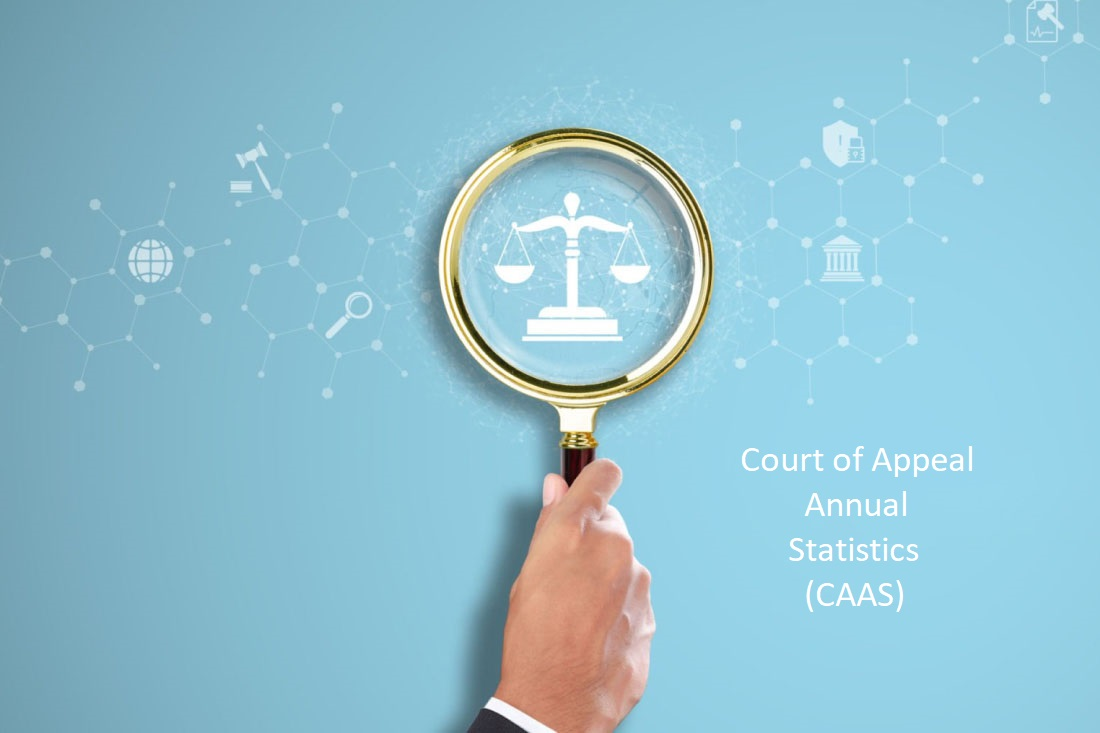
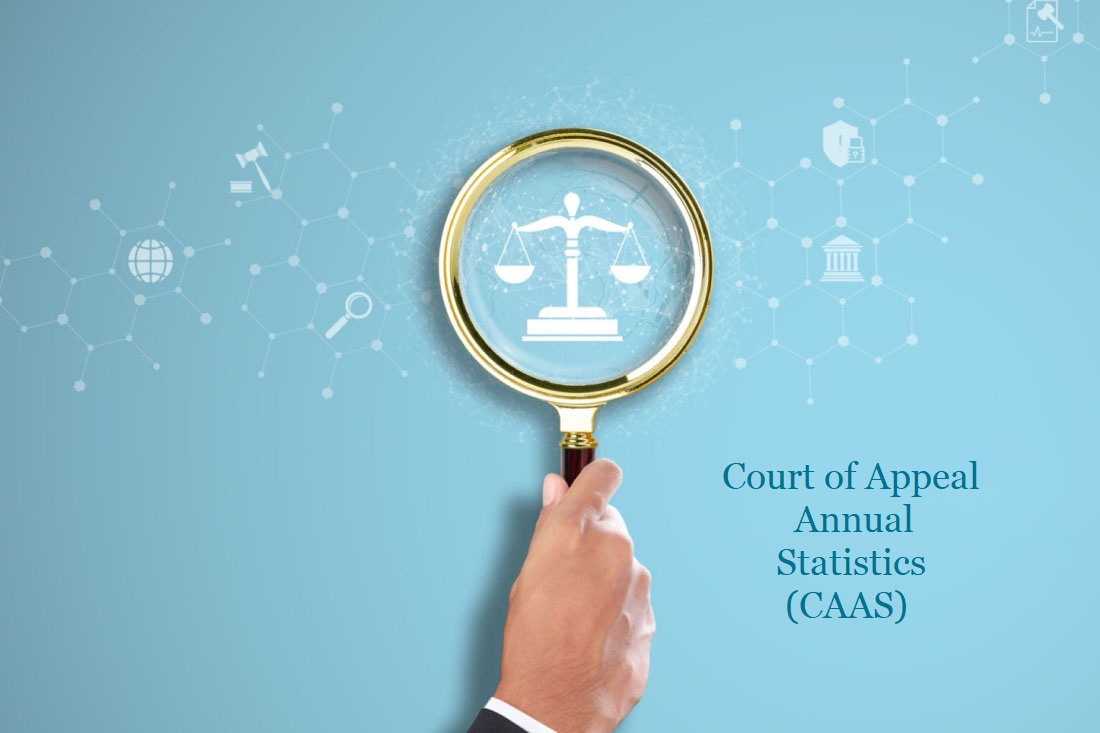
index page changes

Changed region(s): [[0.6491, 0.6003, 0.8964, 0.8404]]

diff --git a/WebRazor/wwwroot/css/site.css b/WebRazor/wwwroot/css/site.css
@@ -45,6 +45,10 @@
     text-align: right;
 }
 
+.align-left {
+    text-align: left;
+}
+
 .item{
     color: #fff;
 }
